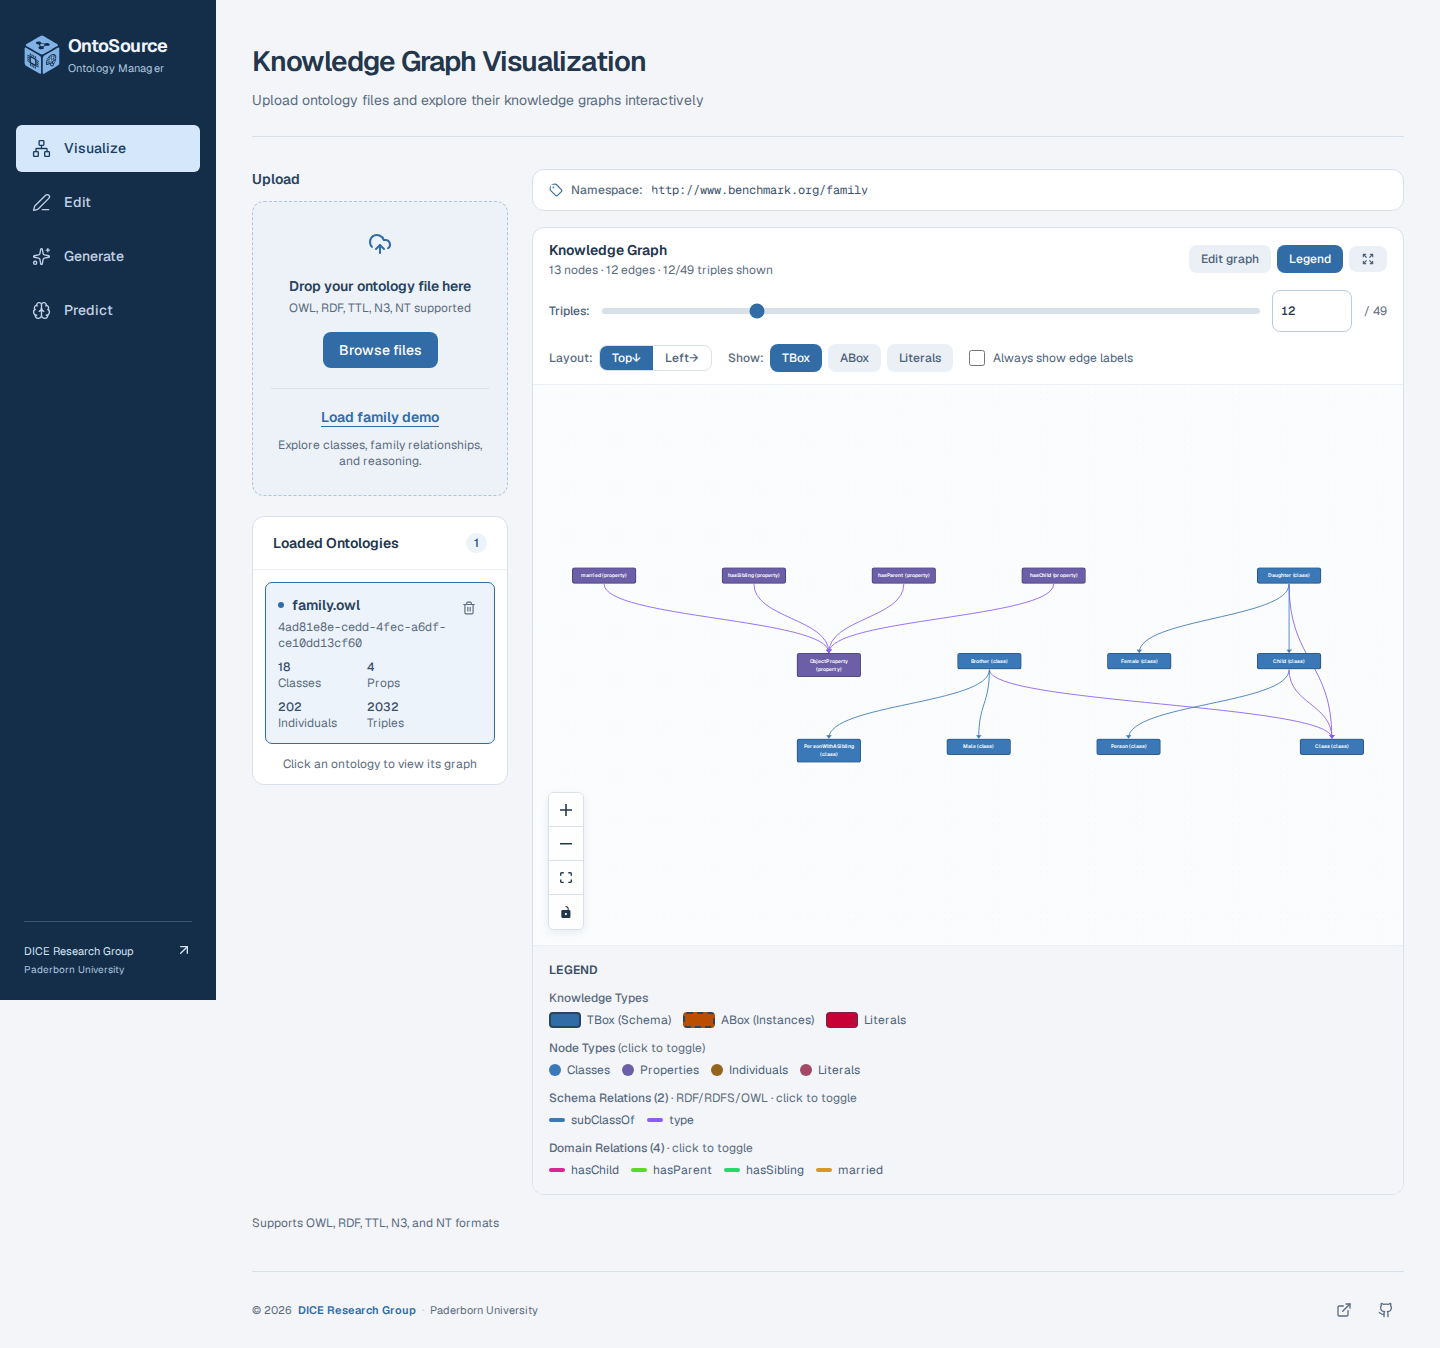
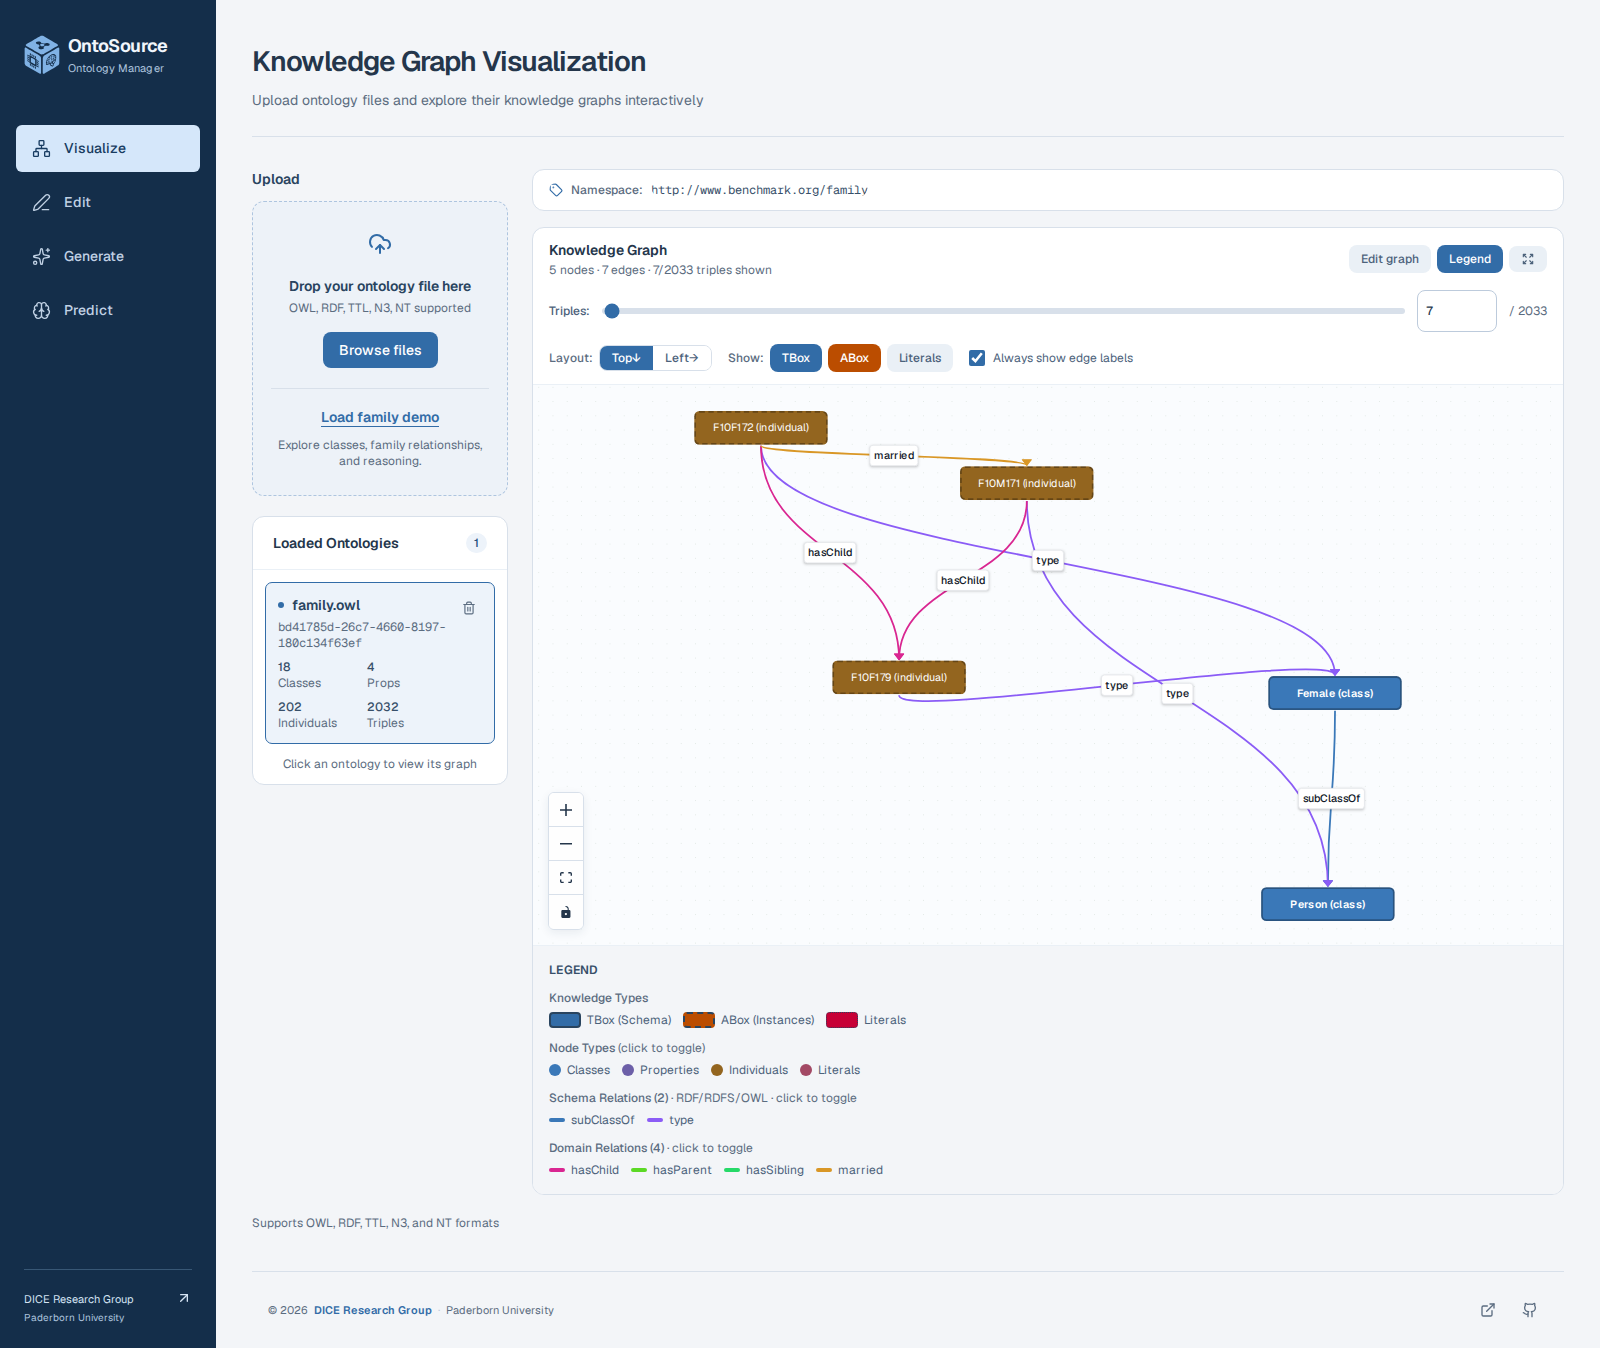
Refresh README screenshots for every workspace

diff --git a/README.md b/README.md
@@ -2,9 +2,21 @@
 
 An web-based platform for ontology engineering and knowledge graph exploration - intuitive editing, visualization, and reasoning, powered by [OWLAPY](https://github.com/dice-group/owlapy).
 
-![Visualisation Overview](ontosource_ui.png)
+## Visualize Knowledge Graphs
 
-![Generation Overview](ontosource_ui2.png)
+![Family knowledge graph with classes, individuals, and labeled relationships](ontosource_ui.png)
+
+## Edit Ontologies
+
+![Ontology editor with a family object property assertion](ontosource_edit.png)
+
+## Generate Ontologies from Text
+
+![Ontology generation with family source text and extraction instructions](ontosource_ui2.png)
+
+## Predict with Reasoners
+
+![Reasoning dashboard showing 35 matching individuals for the Grandmother class](ontosource_predict.png)
 
 ## Prerequisites
 
